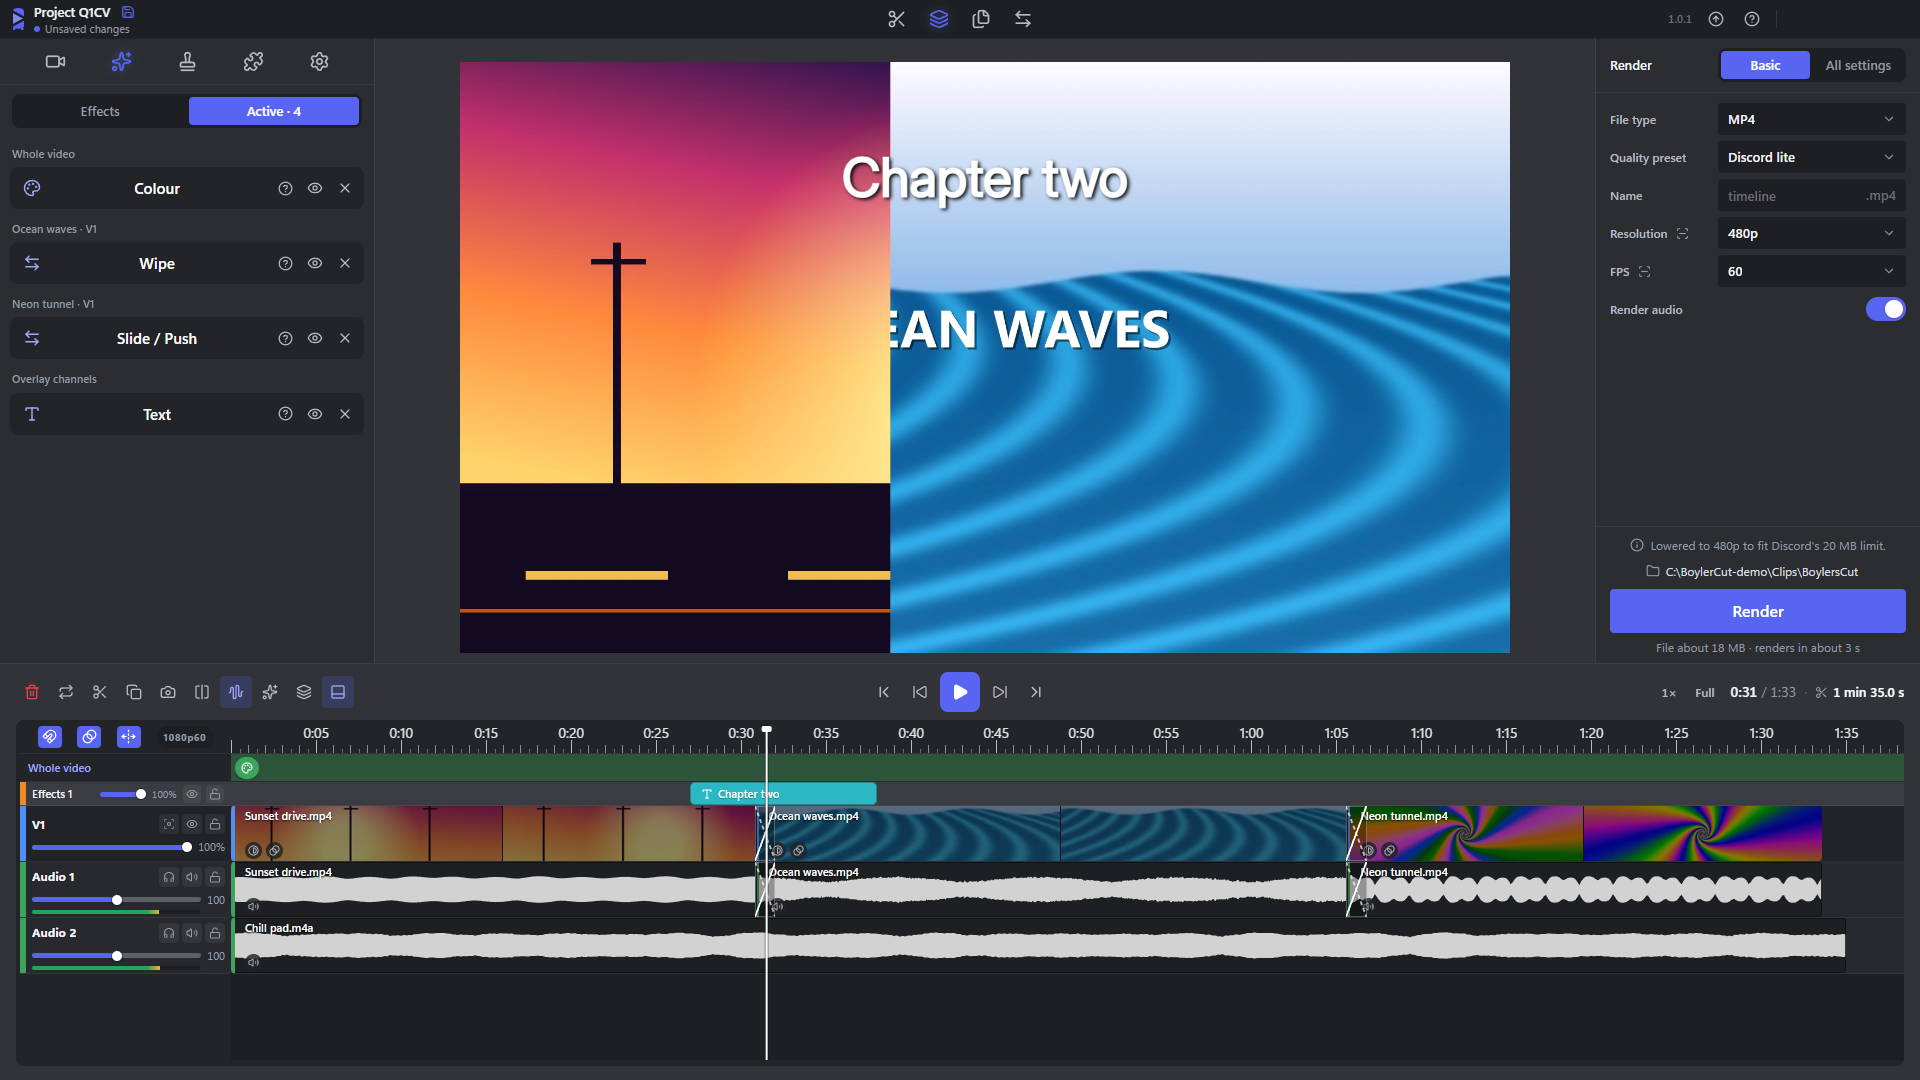
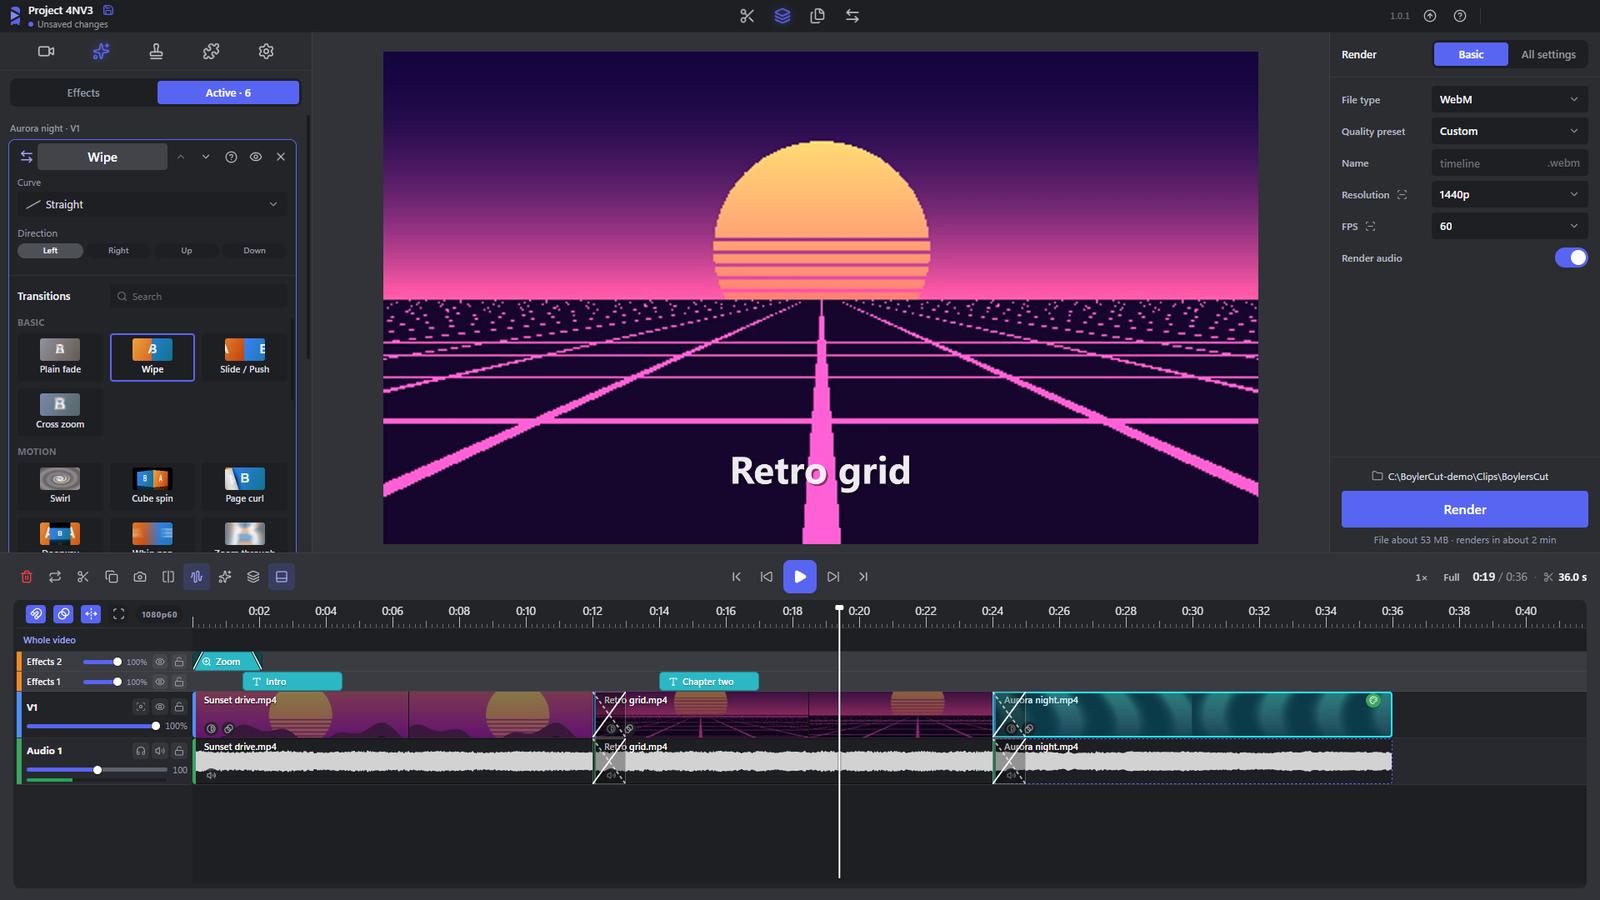
README: screenshots - more of the app

diff --git a/README.md b/README.md
@@ -2,23 +2,29 @@
 
 BoylerCut is a free video clip editor for Windows. Pick a recording, cut it, add effects, render it and drag the file straight into Discord. Everything runs on your own PC: no account, and nothing is uploaded.
 
-![Simple mode: a clip with Colour, Zoom and Text on its strip](images/simple.png)
-*Simple mode: one clip, its effects on the strip and the render settings at the side.*
+![Simple mode: a clip with effect bars on its strip and the Text effect's sliders open](images/hero.png)
+*Simple mode: one clip, its effects on the strip, an effect's sliders at the side and the render settings on the right.*
 
 ## Features
 
 - **Four modes:** Simple cuts one clip, Advanced is a timeline for many clips, Batch renders many clips with the same settings, and Convert turns files into another video, sound or picture type.
 
   ![Advanced mode](images/advanced.png)
-  *Advanced: clips on a timeline with a transition between them, text on top and a volume slider for every track.*
-- **Your clips at a glance:** open the folder you record into and rest the pointer on a clip to play it, or open the big clips view to see them all, grouped by day. Drag clips and finished renders straight into Discord, Explorer or any app.
+  *Advanced: clips on a timeline with transitions between them, text on top and a volume slider for every track.*
 
-  ![The big clips view](images/clips.png)
-  *The big clips view: every clip grouped by day, one playing in the player.*
+  ![Batch mode](images/batch.png)
+  *Batch: many clips in one list, the same effects and render settings for all of them.*
+
+  ![Convert mode](images/convert.png)
+  *Convert: pick the files and the type to turn them into - video, sound or picture.*
+- **Your clips at a glance:** open the folder you record into and rest the pointer on a clip to play it, or open the big clips view to see them all, grouped by day. Drag clips and finished renders straight into Discord, Explorer or any app.
 - **Quick cutting:** trim the start and end, cut a clip into pieces, take pieces out, mute a stretch, and fade anything in or out.
 - **Effects** for the picture and the sound: Colour (with LUTs), Speed, Reverse, Crop, Zoom, Text, Blur box, Pixelate, Camera shake, Freeze frame, Equalizer, Compressor and many more.
 
-  ![The Colour panel](images/colour.png)
+  ![The Effects list](images/effects.png)
+  *The Effects list: every picture and sound effect, ready to drag onto a clip.*
+
+  ![The Colour panel](images/sliders.jpg)
   *Colour: sliders for light and colour, extras and LUTs, with the result in the player as you move them.*
 
   ![Blur box hiding names](images/blur.png)
@@ -27,12 +33,21 @@ BoylerCut is a free video clip editor for Windows. Pick a recording, cut it, add
 - **Transitions** between clips in Advanced: wipes, slides, cross zoom, cube spin, page curl, glitch and many more.
 - **Templates:** save your effects, text, song and mixer as a template with a picture, and put them on the next clip in one click - or let a start template go on every new clip.
 
-  ![Templates](images/templates.png)
+  ![Templates](images/templates.jpg)
   *Templates: each one has a picture, and puts its effects, text, song and mixer on the next clip in one click.*
 - **Music and sound:** a mixer that plays every audio track of your recording, a song under your clip, and a song's sound from a link as mp3.
 - **Downloads:** paste a video link and it is saved as mp4, ready to edit.
 - **AI tools that run on your PC:** Subtitles, Text to speech, Noise removal, Voice isolation, Frame generation, Motion blur, AI upscale and Tracking. Their models download from the Add-ons page only when you want them.
+
+  ![Subtitles written on the picture](images/ai.png)
+  *Subtitles: the words are written from the sound, shown on the picture and open to edit.*
+
+  ![The Add-ons page](images/addons.png)
+  *The Add-ons page: each AI tool, whether it is on your PC, and a button to get it.*
 - **Discord-size renders:** Discord lite and Discord best fit your Discord plan's limit (20 MB, 50 MB, 500 MB or 1 GB). Also MP4, MOV, MKV, WebM, GIF, MP3 and WAV, up to 4K 60 fps for YouTube.
+
+  ![All render settings](images/render.jpg)
+  *Render settings: file type, size and frame rate, shown here for a GIF.*
 - **Your work is kept:** close the app and it opens where you left off; save projects as files, with undo history. 22 themes, and your own colour.
 
 ## Install
